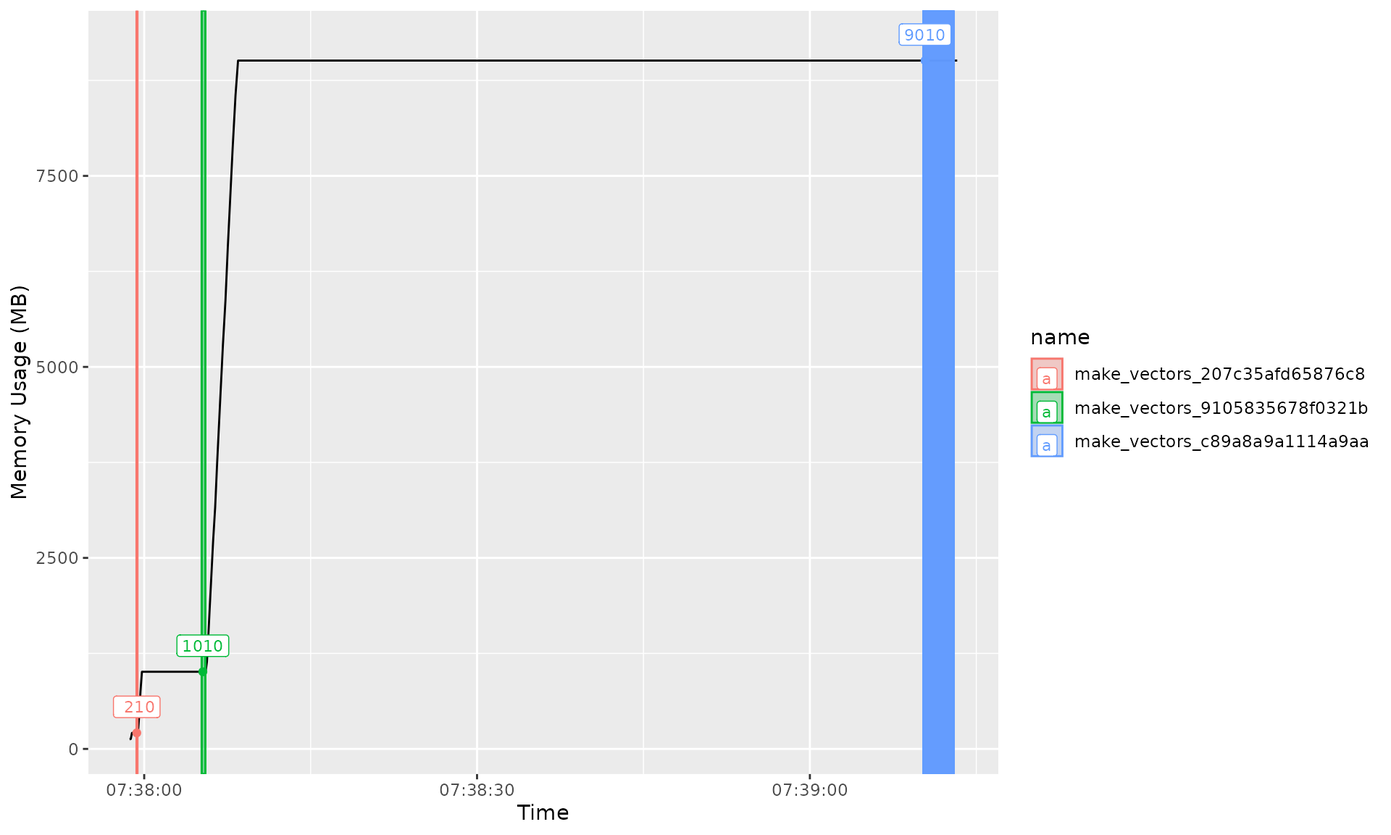
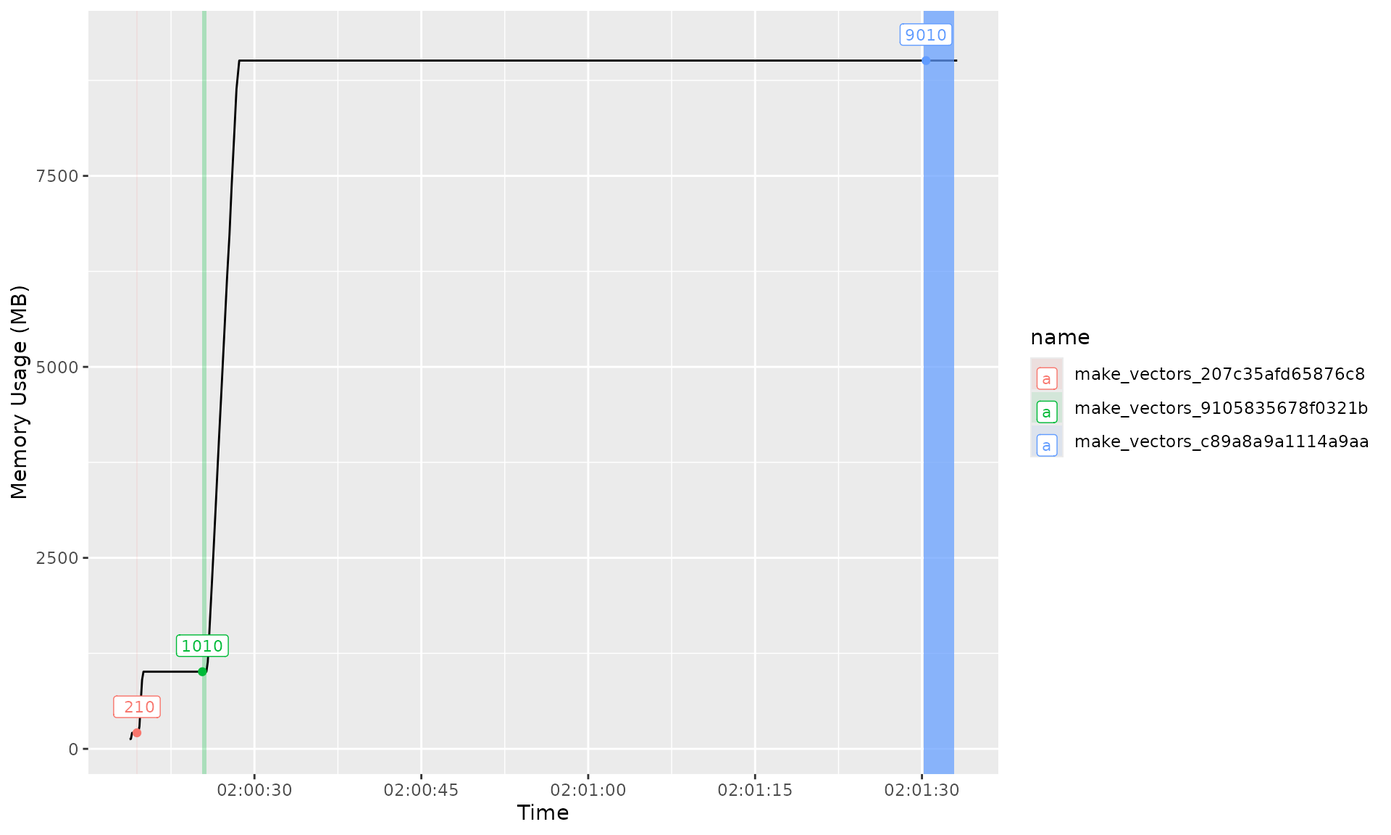
Update

diff --git a/articles/tarprof.html b/articles/tarprof.html
@@ -101,51 +101,54 @@ must be <code>monitor_path</code>.</p>
 parallelism when running the pipeline in profiling mode. In other words,
 when calling <code><a href="https://wlandau.github.io/crew/reference/crew_controller_local.html" class="external-link">crew::crew_controller_local</a></code>, use
 <code>workers = 1</code>. Eventually I hope to lift this limitation.</p>
-<p>We can access the profiling data using <code>profile_data</code>.
-This returns a data frame where each row is one timepoint, and the
-columns correspond to various process metrics.</p>
+<p>Once the targets pipeline has finished, we can access the profiling
+data using <code><a href="../reference/profile_data.html">tarprof::profile_data</a></code>. This returns a data frame
+where each row is one timepoint, and the columns correspond to various
+process metrics.</p>
 <div class="sourceCode" id="cb4"><pre class="downlit sourceCode r">
 <code class="sourceCode R"><span><span class="va">profile</span> <span class="op">&lt;-</span> <span class="fu">tarprof</span><span class="fu">::</span><span class="fu"><a href="../reference/profile_data.html">profile_data</a></span><span class="op">(</span><span class="va">monitor_path</span><span class="op">)</span></span>
 <span><span class="va">profile</span></span></code></pre></div>
-<pre><code><span><span class="co">## <span style="color: #949494;"># A tibble: 337 × 16</span></span></span>
+<pre><code><span><span class="co">## <span style="color: #949494;"># A tibble: 371 × 16</span></span></span>
 <span><span class="co">##          rss       vms shared  text   lib   data dirty    uss    pss  swap  user</span></span>
 <span><span class="co">##        <span style="color: #949494; font-style: italic;">&lt;dbl&gt;</span>     <span style="color: #949494; font-style: italic;">&lt;dbl&gt;</span>  <span style="color: #949494; font-style: italic;">&lt;dbl&gt;</span> <span style="color: #949494; font-style: italic;">&lt;dbl&gt;</span> <span style="color: #949494; font-style: italic;">&lt;dbl&gt;</span>  <span style="color: #949494; font-style: italic;">&lt;dbl&gt;</span> <span style="color: #949494; font-style: italic;">&lt;dbl&gt;</span>  <span style="color: #949494; font-style: italic;">&lt;dbl&gt;</span>  <span style="color: #949494; font-style: italic;">&lt;dbl&gt;</span> <span style="color: #949494; font-style: italic;">&lt;dbl&gt;</span> <span style="color: #949494; font-style: italic;">&lt;dbl&gt;</span></span></span>
-<span><span class="co">## <span style="color: #BCBCBC;"> 1</span> 125<span style="text-decoration: underline;">104</span>128    3.44<span style="color: #949494;">e</span>8 7.64<span style="color: #949494;">e</span>6  <span style="text-decoration: underline;">4</span>096     0 1.89<span style="color: #949494;">e</span>8     0 1.18<span style="color: #949494;">e</span>8 1.19<span style="color: #949494;">e</span>8     0  0.95</span></span>
-<span><span class="co">## <span style="color: #BCBCBC;"> 2</span> 129<span style="text-decoration: underline;">728</span>512    3.48<span style="color: #949494;">e</span>8 7.81<span style="color: #949494;">e</span>6  <span style="text-decoration: underline;">4</span>096     0 1.93<span style="color: #949494;">e</span>8     0 1.23<span style="color: #949494;">e</span>8 1.24<span style="color: #949494;">e</span>8     0  1.05</span></span>
-<span><span class="co">## <span style="color: #BCBCBC;"> 3</span> 209<span style="text-decoration: underline;">743</span>872    4.28<span style="color: #949494;">e</span>8 7.81<span style="color: #949494;">e</span>6  <span style="text-decoration: underline;">4</span>096     0 2.73<span style="color: #949494;">e</span>8     0 2.03<span style="color: #949494;">e</span>8 2.04<span style="color: #949494;">e</span>8     0  1.14</span></span>
-<span><span class="co">## <span style="color: #BCBCBC;"> 4</span> 209<span style="text-decoration: underline;">743</span>872    4.28<span style="color: #949494;">e</span>8 7.81<span style="color: #949494;">e</span>6  <span style="text-decoration: underline;">4</span>096     0 2.73<span style="color: #949494;">e</span>8     0 2.03<span style="color: #949494;">e</span>8 2.04<span style="color: #949494;">e</span>8     0  1.24</span></span>
-<span><span class="co">## <span style="color: #BCBCBC;"> 5</span> 209<span style="text-decoration: underline;">743</span>872    4.28<span style="color: #949494;">e</span>8 7.81<span style="color: #949494;">e</span>6  <span style="text-decoration: underline;">4</span>096     0 2.73<span style="color: #949494;">e</span>8     0 2.03<span style="color: #949494;">e</span>8 2.04<span style="color: #949494;">e</span>8     0  1.35</span></span>
-<span><span class="co">## <span style="color: #BCBCBC;"> 6</span> 209<span style="text-decoration: underline;">743</span>872    4.28<span style="color: #949494;">e</span>8 7.81<span style="color: #949494;">e</span>6  <span style="text-decoration: underline;">4</span>096     0 2.73<span style="color: #949494;">e</span>8     0 2.03<span style="color: #949494;">e</span>8 2.04<span style="color: #949494;">e</span>8     0  1.46</span></span>
-<span><span class="co">## <span style="color: #BCBCBC;"> 7</span> 209<span style="text-decoration: underline;">743</span>872    4.28<span style="color: #949494;">e</span>8 7.81<span style="color: #949494;">e</span>6  <span style="text-decoration: underline;">4</span>096     0 2.73<span style="color: #949494;">e</span>8     0 2.03<span style="color: #949494;">e</span>8 2.04<span style="color: #949494;">e</span>8     0  1.57</span></span>
-<span><span class="co">## <span style="color: #BCBCBC;"> 8</span> 209<span style="text-decoration: underline;">797</span>120    4.28<span style="color: #949494;">e</span>8 7.81<span style="color: #949494;">e</span>6  <span style="text-decoration: underline;">4</span>096     0 2.73<span style="color: #949494;">e</span>8     0 2.03<span style="color: #949494;">e</span>8 2.04<span style="color: #949494;">e</span>8     0  1.67</span></span>
-<span><span class="co">## <span style="color: #BCBCBC;"> 9</span> 436<span style="text-decoration: underline;">334</span>592    1.23<span style="color: #949494;">e</span>9 7.81<span style="color: #949494;">e</span>6  <span style="text-decoration: underline;">4</span>096     0 1.07<span style="color: #949494;">e</span>9     0 4.50<span style="color: #949494;">e</span>8 4.51<span style="color: #949494;">e</span>8     0  1.7 </span></span>
-<span><span class="co">## <span style="color: #BCBCBC;">10</span> 751<span style="text-decoration: underline;">276</span>032    1.23<span style="color: #949494;">e</span>9 7.81<span style="color: #949494;">e</span>6  <span style="text-decoration: underline;">4</span>096     0 1.07<span style="color: #949494;">e</span>9     0 7.78<span style="color: #949494;">e</span>8 7.79<span style="color: #949494;">e</span>8     0  1.72</span></span>
-<span><span class="co">## <span style="color: #949494;"># ℹ 327 more rows</span></span></span>
+<span><span class="co">## <span style="color: #BCBCBC;"> 1</span> 124<span style="text-decoration: underline;">297</span>216    3.43<span style="color: #949494;">e</span>8 7.58<span style="color: #949494;">e</span>6  <span style="text-decoration: underline;">4</span>096     0 1.88<span style="color: #949494;">e</span>8     0 1.17<span style="color: #949494;">e</span>8 1.19<span style="color: #949494;">e</span>8     0  1.02</span></span>
+<span><span class="co">## <span style="color: #BCBCBC;"> 2</span> 129<span style="text-decoration: underline;">732</span>608    3.48<span style="color: #949494;">e</span>8 7.81<span style="color: #949494;">e</span>6  <span style="text-decoration: underline;">4</span>096     0 1.93<span style="color: #949494;">e</span>8     0 1.23<span style="color: #949494;">e</span>8 1.24<span style="color: #949494;">e</span>8     0  1.13</span></span>
+<span><span class="co">## <span style="color: #BCBCBC;"> 3</span> 209<span style="text-decoration: underline;">747</span>968    4.28<span style="color: #949494;">e</span>8 7.81<span style="color: #949494;">e</span>6  <span style="text-decoration: underline;">4</span>096     0 2.73<span style="color: #949494;">e</span>8     0 2.03<span style="color: #949494;">e</span>8 2.04<span style="color: #949494;">e</span>8     0  1.21</span></span>
+<span><span class="co">## <span style="color: #BCBCBC;"> 4</span> 209<span style="text-decoration: underline;">747</span>968    4.28<span style="color: #949494;">e</span>8 7.81<span style="color: #949494;">e</span>6  <span style="text-decoration: underline;">4</span>096     0 2.73<span style="color: #949494;">e</span>8     0 2.03<span style="color: #949494;">e</span>8 2.04<span style="color: #949494;">e</span>8     0  1.32</span></span>
+<span><span class="co">## <span style="color: #BCBCBC;"> 5</span> 209<span style="text-decoration: underline;">747</span>968    4.28<span style="color: #949494;">e</span>8 7.81<span style="color: #949494;">e</span>6  <span style="text-decoration: underline;">4</span>096     0 2.73<span style="color: #949494;">e</span>8     0 2.03<span style="color: #949494;">e</span>8 2.04<span style="color: #949494;">e</span>8     0  1.43</span></span>
+<span><span class="co">## <span style="color: #BCBCBC;"> 6</span> 209<span style="text-decoration: underline;">747</span>968    4.28<span style="color: #949494;">e</span>8 7.81<span style="color: #949494;">e</span>6  <span style="text-decoration: underline;">4</span>096     0 2.73<span style="color: #949494;">e</span>8     0 2.03<span style="color: #949494;">e</span>8 2.04<span style="color: #949494;">e</span>8     0  1.54</span></span>
+<span><span class="co">## <span style="color: #BCBCBC;"> 7</span> 209<span style="text-decoration: underline;">747</span>968    4.28<span style="color: #949494;">e</span>8 7.81<span style="color: #949494;">e</span>6  <span style="text-decoration: underline;">4</span>096     0 2.73<span style="color: #949494;">e</span>8     0 2.03<span style="color: #949494;">e</span>8 2.04<span style="color: #949494;">e</span>8     0  1.65</span></span>
+<span><span class="co">## <span style="color: #BCBCBC;"> 8</span> 209<span style="text-decoration: underline;">797</span>120    4.28<span style="color: #949494;">e</span>8 7.81<span style="color: #949494;">e</span>6  <span style="text-decoration: underline;">4</span>096     0 2.73<span style="color: #949494;">e</span>8     0 2.03<span style="color: #949494;">e</span>8 2.04<span style="color: #949494;">e</span>8     0  1.76</span></span>
+<span><span class="co">## <span style="color: #BCBCBC;"> 9</span> 292<span style="text-decoration: underline;">786</span>176    1.23<span style="color: #949494;">e</span>9 7.81<span style="color: #949494;">e</span>6  <span style="text-decoration: underline;">4</span>096     0 1.07<span style="color: #949494;">e</span>9     0 3.03<span style="color: #949494;">e</span>8 3.04<span style="color: #949494;">e</span>8     0  1.84</span></span>
+<span><span class="co">## <span style="color: #BCBCBC;">10</span> 606<span style="text-decoration: underline;">646</span>272    1.23<span style="color: #949494;">e</span>9 7.81<span style="color: #949494;">e</span>6  <span style="text-decoration: underline;">4</span>096     0 1.07<span style="color: #949494;">e</span>9     0 6.18<span style="color: #949494;">e</span>8 6.19<span style="color: #949494;">e</span>8     0  1.85</span></span>
+<span><span class="co">## <span style="color: #949494;"># ℹ 361 more rows</span></span></span>
 <span><span class="co">## <span style="color: #949494;"># ℹ 5 more variables: system &lt;dbl&gt;, children_user &lt;dbl&gt;, children_system &lt;dbl&gt;,</span></span></span>
 <span><span class="co">## <span style="color: #949494;">#   time &lt;dttm&gt;, pid &lt;int&gt;</span></span></span></code></pre>
 <p>However, this information isn’t much help without the knowledge of
 which targets were run at which times. We can integrate this information
-using <code>profile_per_target</code>:</p>
+using <code><a href="../reference/profile_per_target.html">tarprof::profile_per_target</a></code>:</p>
 <div class="sourceCode" id="cb6"><pre class="downlit sourceCode r">
 <code class="sourceCode R"><span><span class="va">per_target</span> <span class="op">&lt;-</span> <span class="fu">tarprof</span><span class="fu">::</span><span class="fu"><a href="../reference/profile_per_target.html">profile_per_target</a></span><span class="op">(</span><span class="va">profile</span><span class="op">)</span></span>
 <span><span class="va">per_target</span></span></code></pre></div>
-<pre><code><span><span class="co">## <span style="color: #949494;"># A tibble: 14 × 40</span></span></span>
+<pre><code><span><span class="co">## <span style="color: #949494;"># A tibble: 16 × 40</span></span></span>
 <span><span class="co">##       rss    vms shared  text   lib data_profile dirty    uss    pss  swap  user</span></span>
 <span><span class="co">##     <span style="color: #949494; font-style: italic;">&lt;dbl&gt;</span>  <span style="color: #949494; font-style: italic;">&lt;dbl&gt;</span>  <span style="color: #949494; font-style: italic;">&lt;dbl&gt;</span> <span style="color: #949494; font-style: italic;">&lt;dbl&gt;</span> <span style="color: #949494; font-style: italic;">&lt;dbl&gt;</span>        <span style="color: #949494; font-style: italic;">&lt;dbl&gt;</span> <span style="color: #949494; font-style: italic;">&lt;dbl&gt;</span>  <span style="color: #949494; font-style: italic;">&lt;dbl&gt;</span>  <span style="color: #949494; font-style: italic;">&lt;dbl&gt;</span> <span style="color: #949494; font-style: italic;">&lt;dbl&gt;</span> <span style="color: #949494; font-style: italic;">&lt;dbl&gt;</span></span></span>
-<span><span class="co">## <span style="color: #BCBCBC;"> 1</span> 2.10<span style="color: #949494;">e</span>8 4.28<span style="color: #949494;">e</span>8 7.81<span style="color: #949494;">e</span>6  <span style="text-decoration: underline;">4</span>096     0    273<span style="text-decoration: underline;">285</span>120     0 2.03<span style="color: #949494;">e</span>8 2.04<span style="color: #949494;">e</span>8     0  1.57</span></span>
-<span><span class="co">## <span style="color: #BCBCBC;"> 2</span> 1.01<span style="color: #949494;">e</span>9 1.23<span style="color: #949494;">e</span>9 7.81<span style="color: #949494;">e</span>6  <span style="text-decoration: underline;">4</span>096     0   <span style="text-decoration: underline;">1</span>073<span style="text-decoration: underline;">287</span>168     0 1.00<span style="color: #949494;">e</span>9 1.00<span style="color: #949494;">e</span>9     0  7.19</span></span>
-<span><span class="co">## <span style="color: #BCBCBC;"> 3</span> 1.01<span style="color: #949494;">e</span>9 1.23<span style="color: #949494;">e</span>9 7.81<span style="color: #949494;">e</span>6  <span style="text-decoration: underline;">4</span>096     0   <span style="text-decoration: underline;">1</span>073<span style="text-decoration: underline;">287</span>168     0 1.00<span style="color: #949494;">e</span>9 1.00<span style="color: #949494;">e</span>9     0  7.31</span></span>
-<span><span class="co">## <span style="color: #BCBCBC;"> 4</span> 9.01<span style="color: #949494;">e</span>9 9.23<span style="color: #949494;">e</span>9 7.81<span style="color: #949494;">e</span>6  <span style="text-decoration: underline;">4</span>096     0   <span style="text-decoration: underline;">9</span>073<span style="text-decoration: underline;">291</span>264     0 9.00<span style="color: #949494;">e</span>9 9.00<span style="color: #949494;">e</span>9     0 67.9 </span></span>
-<span><span class="co">## <span style="color: #BCBCBC;"> 5</span> 9.01<span style="color: #949494;">e</span>9 9.23<span style="color: #949494;">e</span>9 7.81<span style="color: #949494;">e</span>6  <span style="text-decoration: underline;">4</span>096     0   <span style="text-decoration: underline;">9</span>073<span style="text-decoration: underline;">291</span>264     0 9.00<span style="color: #949494;">e</span>9 9.00<span style="color: #949494;">e</span>9     0 68.1 </span></span>
-<span><span class="co">## <span style="color: #BCBCBC;"> 6</span> 9.01<span style="color: #949494;">e</span>9 9.23<span style="color: #949494;">e</span>9 7.81<span style="color: #949494;">e</span>6  <span style="text-decoration: underline;">4</span>096     0   <span style="text-decoration: underline;">9</span>073<span style="text-decoration: underline;">291</span>264     0 9.00<span style="color: #949494;">e</span>9 9.00<span style="color: #949494;">e</span>9     0 68.3 </span></span>
-<span><span class="co">## <span style="color: #BCBCBC;"> 7</span> 9.01<span style="color: #949494;">e</span>9 9.23<span style="color: #949494;">e</span>9 7.81<span style="color: #949494;">e</span>6  <span style="text-decoration: underline;">4</span>096     0   <span style="text-decoration: underline;">9</span>073<span style="text-decoration: underline;">291</span>264     0 9.00<span style="color: #949494;">e</span>9 9.00<span style="color: #949494;">e</span>9     0 68.6 </span></span>
-<span><span class="co">## <span style="color: #BCBCBC;"> 8</span> 9.01<span style="color: #949494;">e</span>9 9.23<span style="color: #949494;">e</span>9 7.81<span style="color: #949494;">e</span>6  <span style="text-decoration: underline;">4</span>096     0   <span style="text-decoration: underline;">9</span>073<span style="text-decoration: underline;">291</span>264     0 9.00<span style="color: #949494;">e</span>9 9.00<span style="color: #949494;">e</span>9     0 68.8 </span></span>
-<span><span class="co">## <span style="color: #BCBCBC;"> 9</span> 9.01<span style="color: #949494;">e</span>9 9.23<span style="color: #949494;">e</span>9 7.81<span style="color: #949494;">e</span>6  <span style="text-decoration: underline;">4</span>096     0   <span style="text-decoration: underline;">9</span>073<span style="text-decoration: underline;">291</span>264     0 9.00<span style="color: #949494;">e</span>9 9.00<span style="color: #949494;">e</span>9     0 69.0 </span></span>
-<span><span class="co">## <span style="color: #BCBCBC;">10</span> 9.01<span style="color: #949494;">e</span>9 9.23<span style="color: #949494;">e</span>9 7.81<span style="color: #949494;">e</span>6  <span style="text-decoration: underline;">4</span>096     0   <span style="text-decoration: underline;">9</span>073<span style="text-decoration: underline;">291</span>264     0 9.00<span style="color: #949494;">e</span>9 9.00<span style="color: #949494;">e</span>9     0 69.2 </span></span>
-<span><span class="co">## <span style="color: #BCBCBC;">11</span> 9.01<span style="color: #949494;">e</span>9 9.23<span style="color: #949494;">e</span>9 7.81<span style="color: #949494;">e</span>6  <span style="text-decoration: underline;">4</span>096     0   <span style="text-decoration: underline;">9</span>073<span style="text-decoration: underline;">291</span>264     0 9.00<span style="color: #949494;">e</span>9 9.00<span style="color: #949494;">e</span>9     0 69.5 </span></span>
-<span><span class="co">## <span style="color: #BCBCBC;">12</span> 9.01<span style="color: #949494;">e</span>9 9.23<span style="color: #949494;">e</span>9 7.81<span style="color: #949494;">e</span>6  <span style="text-decoration: underline;">4</span>096     0   <span style="text-decoration: underline;">9</span>073<span style="text-decoration: underline;">291</span>264     0 9.00<span style="color: #949494;">e</span>9 9.00<span style="color: #949494;">e</span>9     0 69.7 </span></span>
-<span><span class="co">## <span style="color: #BCBCBC;">13</span> 9.01<span style="color: #949494;">e</span>9 9.23<span style="color: #949494;">e</span>9 7.81<span style="color: #949494;">e</span>6  <span style="text-decoration: underline;">4</span>096     0   <span style="text-decoration: underline;">9</span>073<span style="text-decoration: underline;">291</span>264     0 9.00<span style="color: #949494;">e</span>9 9.00<span style="color: #949494;">e</span>9     0 70.0 </span></span>
-<span><span class="co">## <span style="color: #BCBCBC;">14</span> 9.01<span style="color: #949494;">e</span>9 9.23<span style="color: #949494;">e</span>9 7.81<span style="color: #949494;">e</span>6  <span style="text-decoration: underline;">4</span>096     0   <span style="text-decoration: underline;">9</span>073<span style="text-decoration: underline;">291</span>264     0 9.00<span style="color: #949494;">e</span>9 9.00<span style="color: #949494;">e</span>9     0 70.2 </span></span>
+<span><span class="co">## <span style="color: #BCBCBC;"> 1</span> 2.10<span style="color: #949494;">e</span>8 4.28<span style="color: #949494;">e</span>8 7.81<span style="color: #949494;">e</span>6  <span style="text-decoration: underline;">4</span>096     0    273<span style="text-decoration: underline;">293</span>312     0 2.03<span style="color: #949494;">e</span>8 2.04<span style="color: #949494;">e</span>8     0  1.65</span></span>
+<span><span class="co">## <span style="color: #BCBCBC;"> 2</span> 1.01<span style="color: #949494;">e</span>9 1.23<span style="color: #949494;">e</span>9 7.81<span style="color: #949494;">e</span>6  <span style="text-decoration: underline;">4</span>096     0   <span style="text-decoration: underline;">1</span>073<span style="text-decoration: underline;">295</span>360     0 1.00<span style="color: #949494;">e</span>9 1.00<span style="color: #949494;">e</span>9     0  7.22</span></span>
+<span><span class="co">## <span style="color: #BCBCBC;"> 3</span> 1.01<span style="color: #949494;">e</span>9 1.23<span style="color: #949494;">e</span>9 7.81<span style="color: #949494;">e</span>6  <span style="text-decoration: underline;">4</span>096     0   <span style="text-decoration: underline;">1</span>073<span style="text-decoration: underline;">295</span>360     0 1.00<span style="color: #949494;">e</span>9 1.00<span style="color: #949494;">e</span>9     0  7.34</span></span>
+<span><span class="co">## <span style="color: #BCBCBC;"> 4</span> 1.01<span style="color: #949494;">e</span>9 1.23<span style="color: #949494;">e</span>9 7.81<span style="color: #949494;">e</span>6  <span style="text-decoration: underline;">4</span>096     0   <span style="text-decoration: underline;">1</span>073<span style="text-decoration: underline;">295</span>360     0 1.00<span style="color: #949494;">e</span>9 1.00<span style="color: #949494;">e</span>9     0  7.47</span></span>
+<span><span class="co">## <span style="color: #BCBCBC;"> 5</span> 9.01<span style="color: #949494;">e</span>9 9.23<span style="color: #949494;">e</span>9 7.81<span style="color: #949494;">e</span>6  <span style="text-decoration: underline;">4</span>096     0   <span style="text-decoration: underline;">9</span>073<span style="text-decoration: underline;">299</span>456     0 9.00<span style="color: #949494;">e</span>9 9.00<span style="color: #949494;">e</span>9     0 68.7 </span></span>
+<span><span class="co">## <span style="color: #BCBCBC;"> 6</span> 9.01<span style="color: #949494;">e</span>9 9.23<span style="color: #949494;">e</span>9 7.81<span style="color: #949494;">e</span>6  <span style="text-decoration: underline;">4</span>096     0   <span style="text-decoration: underline;">9</span>073<span style="text-decoration: underline;">299</span>456     0 9.00<span style="color: #949494;">e</span>9 9.00<span style="color: #949494;">e</span>9     0 68.9 </span></span>
+<span><span class="co">## <span style="color: #BCBCBC;"> 7</span> 9.01<span style="color: #949494;">e</span>9 9.23<span style="color: #949494;">e</span>9 7.81<span style="color: #949494;">e</span>6  <span style="text-decoration: underline;">4</span>096     0   <span style="text-decoration: underline;">9</span>073<span style="text-decoration: underline;">299</span>456     0 9.00<span style="color: #949494;">e</span>9 9.00<span style="color: #949494;">e</span>9     0 69.2 </span></span>
+<span><span class="co">## <span style="color: #BCBCBC;"> 8</span> 9.01<span style="color: #949494;">e</span>9 9.23<span style="color: #949494;">e</span>9 7.81<span style="color: #949494;">e</span>6  <span style="text-decoration: underline;">4</span>096     0   <span style="text-decoration: underline;">9</span>073<span style="text-decoration: underline;">299</span>456     0 9.00<span style="color: #949494;">e</span>9 9.00<span style="color: #949494;">e</span>9     0 69.4 </span></span>
+<span><span class="co">## <span style="color: #BCBCBC;"> 9</span> 9.01<span style="color: #949494;">e</span>9 9.23<span style="color: #949494;">e</span>9 7.81<span style="color: #949494;">e</span>6  <span style="text-decoration: underline;">4</span>096     0   <span style="text-decoration: underline;">9</span>073<span style="text-decoration: underline;">299</span>456     0 9.00<span style="color: #949494;">e</span>9 9.00<span style="color: #949494;">e</span>9     0 69.6 </span></span>
+<span><span class="co">## <span style="color: #BCBCBC;">10</span> 9.01<span style="color: #949494;">e</span>9 9.23<span style="color: #949494;">e</span>9 7.81<span style="color: #949494;">e</span>6  <span style="text-decoration: underline;">4</span>096     0   <span style="text-decoration: underline;">9</span>073<span style="text-decoration: underline;">299</span>456     0 9.00<span style="color: #949494;">e</span>9 9.00<span style="color: #949494;">e</span>9     0 69.8 </span></span>
+<span><span class="co">## <span style="color: #BCBCBC;">11</span> 9.01<span style="color: #949494;">e</span>9 9.23<span style="color: #949494;">e</span>9 7.81<span style="color: #949494;">e</span>6  <span style="text-decoration: underline;">4</span>096     0   <span style="text-decoration: underline;">9</span>073<span style="text-decoration: underline;">299</span>456     0 9.00<span style="color: #949494;">e</span>9 9.00<span style="color: #949494;">e</span>9     0 70.1 </span></span>
+<span><span class="co">## <span style="color: #BCBCBC;">12</span> 9.01<span style="color: #949494;">e</span>9 9.23<span style="color: #949494;">e</span>9 7.81<span style="color: #949494;">e</span>6  <span style="text-decoration: underline;">4</span>096     0   <span style="text-decoration: underline;">9</span>073<span style="text-decoration: underline;">299</span>456     0 9.00<span style="color: #949494;">e</span>9 9.00<span style="color: #949494;">e</span>9     0 70.3 </span></span>
+<span><span class="co">## <span style="color: #BCBCBC;">13</span> 9.01<span style="color: #949494;">e</span>9 9.23<span style="color: #949494;">e</span>9 7.81<span style="color: #949494;">e</span>6  <span style="text-decoration: underline;">4</span>096     0   <span style="text-decoration: underline;">9</span>073<span style="text-decoration: underline;">299</span>456     0 9.00<span style="color: #949494;">e</span>9 9.00<span style="color: #949494;">e</span>9     0 70.5 </span></span>
+<span><span class="co">## <span style="color: #BCBCBC;">14</span> 9.01<span style="color: #949494;">e</span>9 9.23<span style="color: #949494;">e</span>9 7.81<span style="color: #949494;">e</span>6  <span style="text-decoration: underline;">4</span>096     0   <span style="text-decoration: underline;">9</span>073<span style="text-decoration: underline;">299</span>456     0 9.00<span style="color: #949494;">e</span>9 9.00<span style="color: #949494;">e</span>9     0 70.7 </span></span>
+<span><span class="co">## <span style="color: #BCBCBC;">15</span> 9.01<span style="color: #949494;">e</span>9 9.23<span style="color: #949494;">e</span>9 7.81<span style="color: #949494;">e</span>6  <span style="text-decoration: underline;">4</span>096     0   <span style="text-decoration: underline;">9</span>073<span style="text-decoration: underline;">299</span>456     0 9.00<span style="color: #949494;">e</span>9 9.00<span style="color: #949494;">e</span>9     0 70.9 </span></span>
+<span><span class="co">## <span style="color: #BCBCBC;">16</span> 9.01<span style="color: #949494;">e</span>9 9.23<span style="color: #949494;">e</span>9 7.81<span style="color: #949494;">e</span>6  <span style="text-decoration: underline;">4</span>096     0   <span style="text-decoration: underline;">9</span>073<span style="text-decoration: underline;">299</span>456     0 9.00<span style="color: #949494;">e</span>9 9.00<span style="color: #949494;">e</span>9     0 71.2 </span></span>
 <span><span class="co">## <span style="color: #949494;"># ℹ 29 more variables: system &lt;dbl&gt;, children_user &lt;dbl&gt;,</span></span></span>
 <span><span class="co">## <span style="color: #949494;">#   children_system &lt;dbl&gt;, time_profile &lt;dttm&gt;, pid &lt;int&gt;, name &lt;chr&gt;,</span></span></span>
 <span><span class="co">## <span style="color: #949494;">#   type &lt;chr&gt;, data_targets &lt;chr&gt;, command &lt;chr&gt;, depend &lt;chr&gt;, seed &lt;int&gt;,</span></span></span>
@@ -161,15 +164,15 @@ memory usage and CPU efficiency of each target:</p>
 <pre><code><span><span class="co">## <span style="color: #949494;"># A tibble: 3 × 4</span></span></span>
 <span><span class="co">##   name                          peak_memory peak_memory_time    cpu_efficiency</span></span>
 <span><span class="co">##   <span style="color: #949494; font-style: italic;">&lt;chr&gt;</span>                               <span style="color: #949494; font-style: italic;">&lt;dbl&gt;</span> <span style="color: #949494; font-style: italic;">&lt;dttm&gt;</span>                       <span style="color: #949494; font-style: italic;">&lt;dbl&gt;</span></span></span>
-<span><span class="co">## <span style="color: #BCBCBC;">1</span> make_vectors_207c35afd65876c8   209<span style="text-decoration: underline;">743</span>872 2024-05-24 <span style="color: #949494;">17:37:59</span>          0    </span></span>
-<span><span class="co">## <span style="color: #BCBCBC;">2</span> make_vectors_9105835678f0321b  <span style="text-decoration: underline;">1</span>009<span style="text-decoration: underline;">717</span>248 2024-05-24 <span style="color: #949494;">17:38:05</span>          0.359</span></span>
-<span><span class="co">## <span style="color: #BCBCBC;">3</span> make_vectors_c89a8a9a1114a9aa  <span style="text-decoration: underline;">9</span>009<span style="text-decoration: underline;">577</span>984 2024-05-24 <span style="color: #949494;">17:39:10</span>          0.858</span></span></code></pre>
-<p>Finally we can use <code>memory_plot</code> to represent the memory
-usage In the plot below, each colour corresponds to a different target.
-The coloured band indicates the time that <code>targets</code> thinks
-the target was running for (although I’m unsure how accurate this is).
-The labelled point indicates the maximum memory usage for that target.
-Note that these maximum points correspond to the value of
+<span><span class="co">## <span style="color: #BCBCBC;">1</span> make_vectors_207c35afd65876c8   209<span style="text-decoration: underline;">747</span>968 2024-05-29 <span style="color: #949494;">12:00:19</span>          0    </span></span>
+<span><span class="co">## <span style="color: #BCBCBC;">2</span> make_vectors_9105835678f0321b  <span style="text-decoration: underline;">1</span>009<span style="text-decoration: underline;">717</span>248 2024-05-29 <span style="color: #949494;">12:00:25</span>          0.653</span></span>
+<span><span class="co">## <span style="color: #BCBCBC;">3</span> make_vectors_c89a8a9a1114a9aa  <span style="text-decoration: underline;">9</span>009<span style="text-decoration: underline;">582</span>080 2024-05-29 <span style="color: #949494;">12:01:30</span>          0.895</span></span></code></pre>
+<p>Finally we can use <code><a href="../reference/memory_plot.html">tarprof::memory_plot</a></code> to represent the
+memory usage In the plot below, each colour corresponds to a different
+target. The coloured band indicates the time that <code>targets</code>
+thinks the target was running for (although I’m unsure how accurate this
+is). The labelled point indicates the maximum memory usage for that
+target. Note that these maximum points correspond to the value of
 <code>peak_memory</code> in the previous data frame.</p>
 <div class="sourceCode" id="cb10"><pre class="downlit sourceCode r">
 <code class="sourceCode R"><span><span class="fu">tarprof</span><span class="fu">::</span><span class="fu"><a href="../reference/memory_plot.html">memory_plot</a></span><span class="op">(</span><span class="va">profile</span><span class="op">)</span></span></code></pre></div>

diff --git a/index.html b/index.html
@@ -73,7 +73,7 @@
 <div class="section level2">
 <h2 id="usage">Usage<a class="anchor" aria-label="anchor" href="#usage"></a>
 </h2>
-<p><a href="https://wehi-researchcomputing.github.io/tarprof" class="external-link">See the documentation website here!</a></p>
+<p><a href="https://wehi-researchcomputing.github.io/tarprof/articles/tarprof.html" class="external-link">See the documentation website here!</a></p>
 </div>
 </div>
   </main><aside class="col-md-3"><div class="links">
